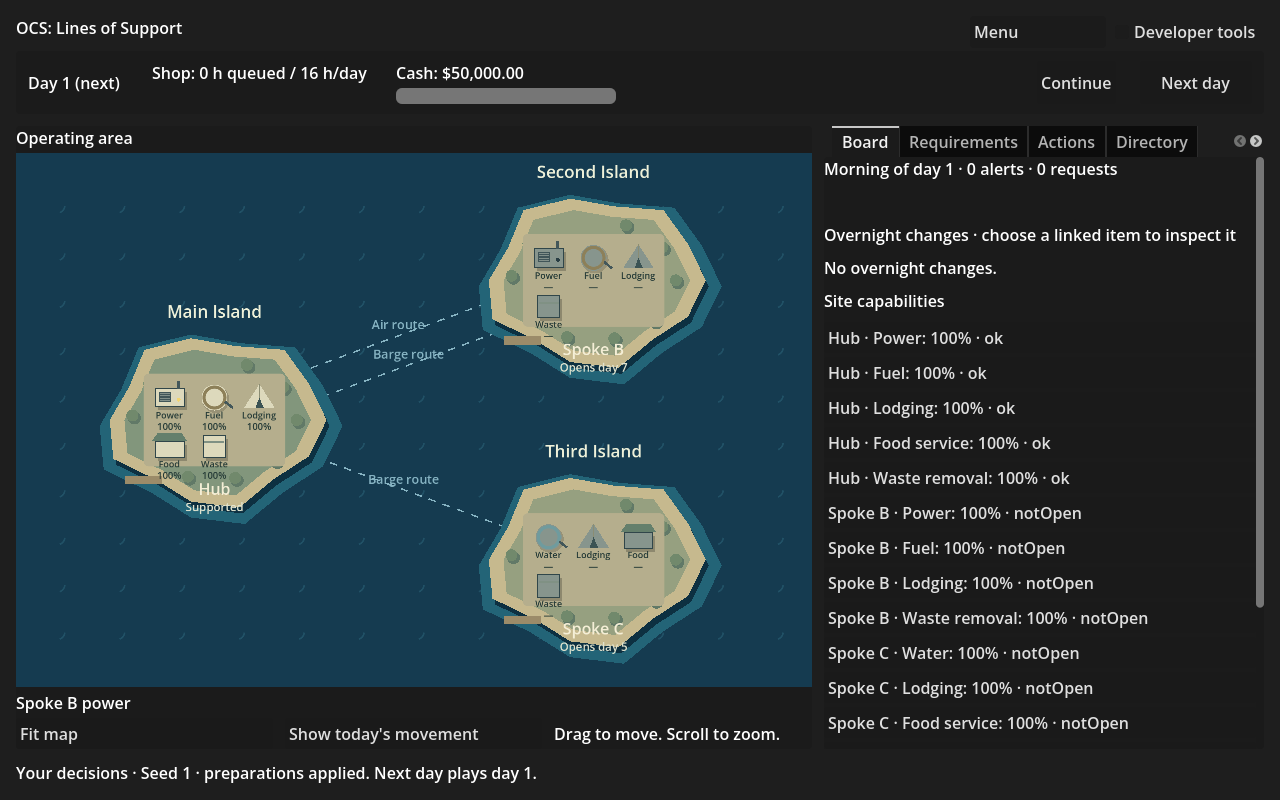
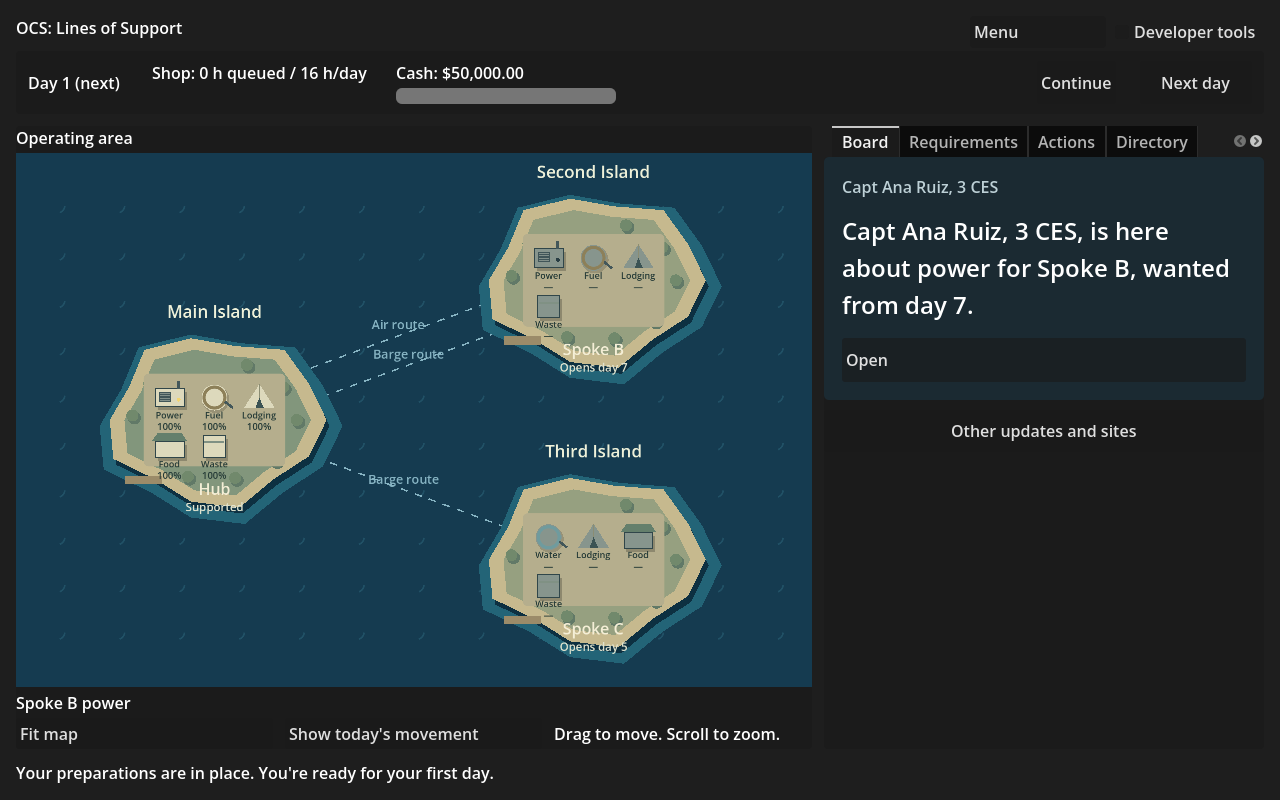
M2R-15: integrate morning lead and verify normal player entry

diff --git a/game/tests/MapSmokeTest.cs b/game/tests/MapSmokeTest.cs
@@ -10,7 +10,11 @@ public partial class MapSmokeTest : Node
     {
         try
         {
-            var shell = Shell(this); shell.DeveloperToggle.ButtonPressed = false;
+            using var scene = GD.Load<PackedScene>("res://scenes/Main.tscn");
+            var shell = scene.Instantiate<GameShell>();
+            shell.AutosavePathOverride = Path.Combine(Path.GetTempPath(), "ocs-map-" + Guid.NewGuid().ToString("N") + ".json");
+            AddChild(shell); shell.NewGameButton.EmitSignal(Button.SignalName.Pressed);
+            shell.SpokeBGameButton.EmitSignal(Button.SignalName.Pressed); DeployWithoutPrep(shell);
             shell.GetNode<TabContainer>("%DeskTabs").CurrentTab = 0;
             var map = shell.GetNode<SubViewport>("%BoardViewport").GetNode<SchematicMap>("SchematicMap");
             await ToSignal(GetTree(), SceneTree.SignalName.ProcessFrame);
@@ -66,6 +70,7 @@ public partial class MapSmokeTest : Node
             map.ShowMapDay(actual with { Changes = [.. actual.Changes, new MapChange("hubSite", "power", "vendorFailure", 0, null, "unreported-test", false)] });
             Require(map.KnownChanges.All(c => c.RecordId != "unreported-test"), "An explicitly unreported change is never drawn.");
             map.ShowMapDay(actual);
+            File.Delete(shell.AutosavePath);
             shell.QueueFree(); await ToSignal(GetTree(), SceneTree.SignalName.ProcessFrame); await ToSignal(GetTree(), SceneTree.SignalName.ProcessFrame);
             GD.Print("MAP_SMOKE_PASS: illustrated tiles, camera/site input, exact runs/closures/cargo, known filtering and pure animation."); GetTree().Quit();
         }

diff --git a/docs/handoffs/2026-11-08-codex-m2r-15-map.md b/docs/handoffs/2026-11-08-codex-m2r-15-map.md
@@ -4,7 +4,7 @@ Expected look of this build and why: a blue-water illustrated map with sandy isl
 
 ## PRs reviewed this session
 
-Fable merged the earlier front-door, people, market, validator and turnover work. PR 112 (morning lead) remains open; its newly received review and main update are the next fix pass. Fable accepted OBJ-0004 and delivered M2R-09 on main, so the complete moving map is now unblocked. No PR was merged by Codex.
+Fable merged the earlier front-door, people, market, validator and turnover work. Fixed PR 112's base and both presentation comments; all checks passed and Fable merged it. Fable accepted OBJ-0004 and delivered M2R-09 on main, so the complete moving map is now unblocked. Opened this as PR 116 and support validator work as PR 117. No PR was merged by Codex.
 
 ## Changed
 
@@ -12,7 +12,7 @@ Replaced dots with source-drawn 2D islands, shorelines and capability objects. A
 
 MapDay supplies actual runs, closures, held cargo and incoming shipments. Runs animate to the destination dock, then truck to the site; incoming shipments remain outside the site. Aircraft are drawn only for actual aircraft/airlift records, not inferred flights from schedules. Known change markers filter the Sim's Known flag. Rendering never computes delivery, shortage or closure rules.
 
-Four plain PNGs (each under 171 KB, no LFS): [day 1](images/2026-11-08-codex-m2r-15-day1.png), [day 10](images/2026-11-08-codex-m2r-15-day10.png), [actual delivery](images/2026-11-08-codex-m2r-15-delivery.png), [closed route](images/2026-11-08-codex-m2r-15-closed.png).
+Four plain PNGs (each under 122 KB, no LFS): [day 1](images/2026-11-08-codex-m2r-15-day1.png), [day 10](images/2026-11-08-codex-m2r-15-day10.png), [actual delivery](images/2026-11-08-codex-m2r-15-delivery.png), [closed route](images/2026-11-08-codex-m2r-15-closed.png). Regenerated after integrating the morning lead from main, with day one reached through actual New game rather than a developer fixture.
 
 ## Why
 
@@ -20,14 +20,14 @@ R7 calls for visible consequences on the main map. OBJ-0004 established that pub
 
 ## Validated how
 
-.NET 8 Release solution build and all 526 tests pass (406 Sim, 120 Harness). Godot 4.6.1 .NET Game build passes. Scenario validation: four folders, zero errors; provenance passes; all 56 Python validator tests pass. Ten native regression scenes pass: Board, Session, Morning, Confidence, Disruption, FrontDoor, People, Market, Turnover and Save.
+.NET 8 Release solution build and all 536 tests pass on the merged main contracts (415 Sim, 121 Harness). Godot 4.6.1 .NET Game build passes. Scenario validation: four folders, zero errors; provenance passes; all 56 Python validator tests pass. Initial ten native regression scenes pass: Board, Session, Morning, Confidence, Disruption, FrontDoor, People, Market, Turnover and Save. After merging the J4 and morning-lead changes from main, reran Map, Board, Session, Morning, Lead, FrontDoor, Turnover and Save successfully. Integration kept both Lead and Map CI scenes, both README additions and the illustrated map's current-state labels.
 
 New native MapSmokeTest passes graphically and is added to CI. It checks day-zero absence of invented movement, exact MapDay facts through day 20, closed-route holds, day-ten power down, actual site input and camera changes, exclusion of an explicitly unreported change, and unchanged Sim hashes throughout rendering. Screenshots were rendered and visually inspected; crowded unopened labels were shortened to a dash beneath each symbol while the site's opening date remains visible.
 
 ## Unresolved
 
-The inherited Sim map projection produces four CS8604 nullable warnings on a fresh Release build (vendor fields in Session.Map.cs); no errors or failing tests. That source is Fable's lane and was not edited. M2R-12's wider plain-name pass still awaits Fable's M2R-07. The right desk's morning-lead changes remain in separate PR 112. No additions to FOR-NICK.md.
+The inherited Sim map projection produces four CS8604 nullable warnings on a fresh Release build (vendor fields in Session.Map.cs); no errors or failing tests. That source is Fable's lane and was not edited. M2R-12's wider plain-name pass still awaits Fable's M2R-07. No additions to FOR-NICK.md.
 
 ## Next
 
-Repair PR 112 against current main and address its two nonblocking presentation comments. Then take the next unblocked Codex item, using the published people/tutorial contracts as they land. Never merge; leave review to Fable.
+Session budget spent after the integration fix pass. Next session: check PRs 116/117 for review/CI/main updates, then take the next unblocked Codex item using the published naming and people/tutorial contracts as they land. Never merge; leave review to Fable.
